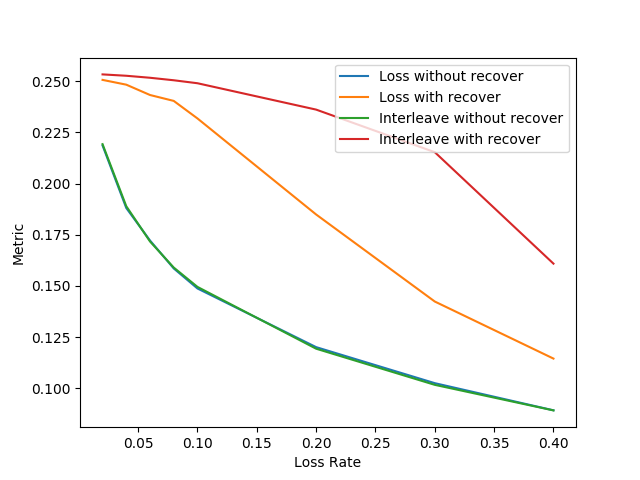
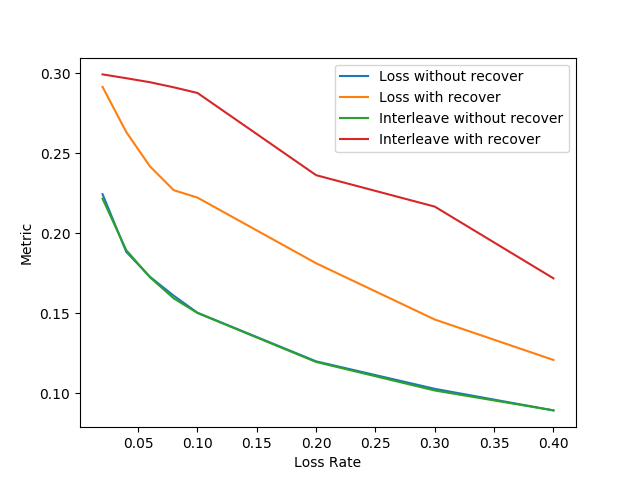
update results

diff --git a/image_to_quality.py b/image_to_quality.py
@@ -1,9 +1,9 @@
 # Py3
-import vifp
-import ssim
-import psnr
-import niqe
-import reco
+from video_quality import vifp
+from video_quality import ssim
+from video_quality import psnr
+from video_quality import niqe
+from video_quality import reco
 from image_loss_recovery_emulator.imageproc import create_damaged_images_set
 import pickle
 import matplotlib.pyplot as plt
@@ -63,11 +63,11 @@ def one_name_to_all_result(name):
 
 
 # generate file_lr_id.bmp, lr in loss rate list, id in [0,5]
-def emulator_file_list_at_all_loss_rate(path, file_list, loss_rate_list):
+def emulator_file_list_at_all_loss_rate(path, file_list, loss_rate_list, redo=False):
     for loss_rate in loss_rate_list:
         for filename in file_list:
             # todo: need to check the existence of the files
-            create_damaged_images_set(path+filename+".bmp", loss_rate, redo=False) # loss rate here is a float
+            create_damaged_images_set(path+filename+".bmp", loss_rate, redo=redo) # loss rate here is a float
 
 # get 1,2,3,4 results, for filename_string of loss rate
 def get_result_for_one_file_at_loss_rate(filename, loss_rate):
@@ -131,7 +131,7 @@ def parse_dataset_result_for_one_metric(dataset_result, metric):
     plt.gcf().clear()
 
 print("Emulating all files")
-emulator_file_list_at_all_loss_rate("./testset/", file_list, loss_rate_list)
+emulator_file_list_at_all_loss_rate("./testset/", file_list, loss_rate_list, redo=True)
 
 print("Getting results")
 dataset_result = get_all_result("./testset/", file_list, loss_rate_list)
